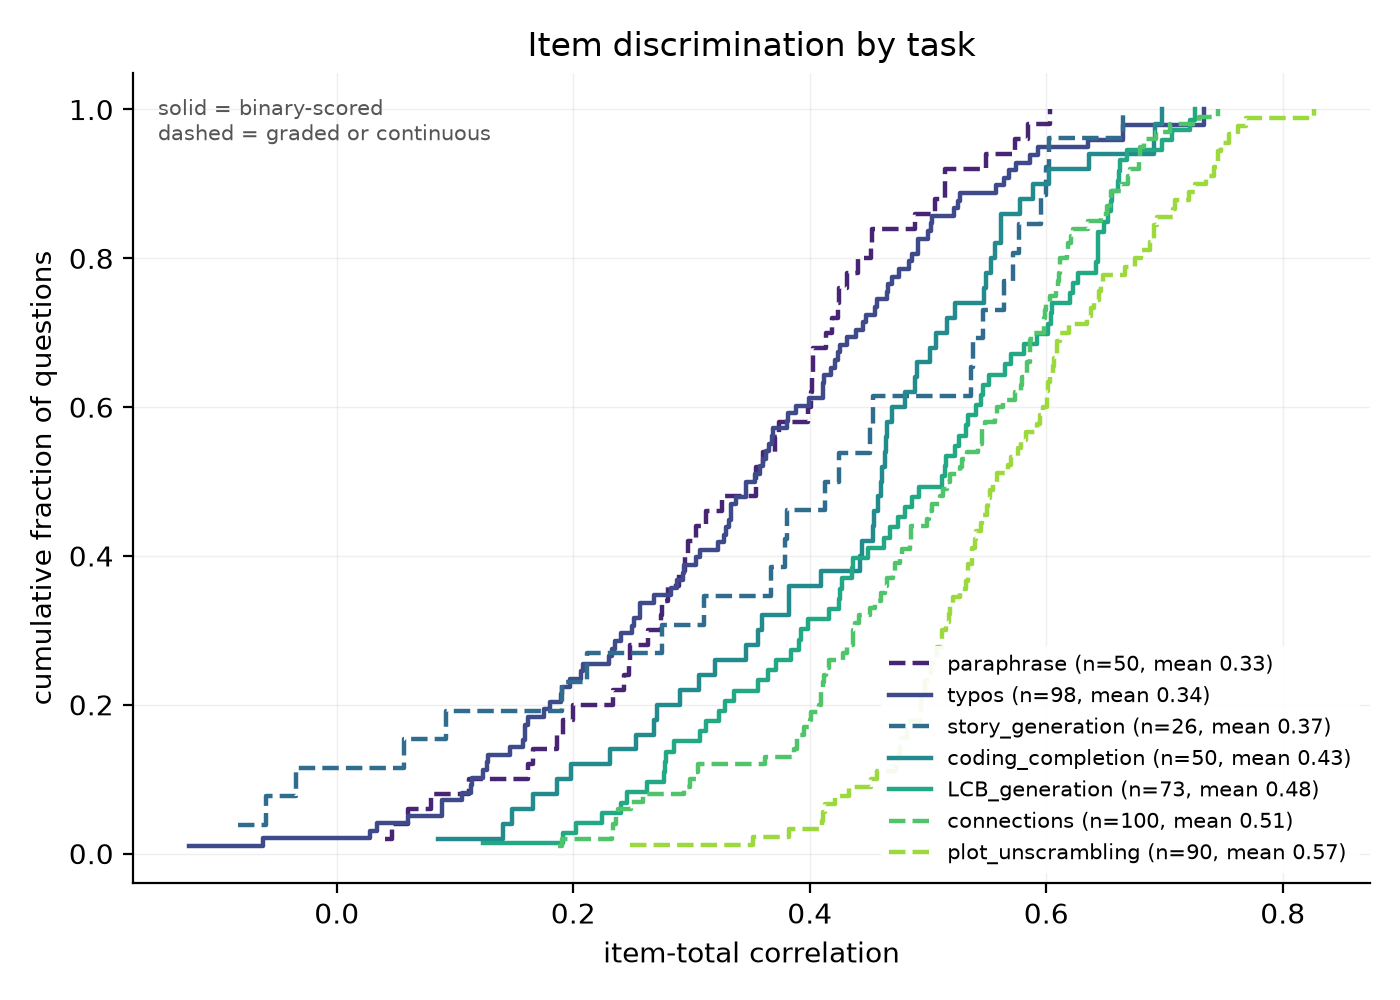
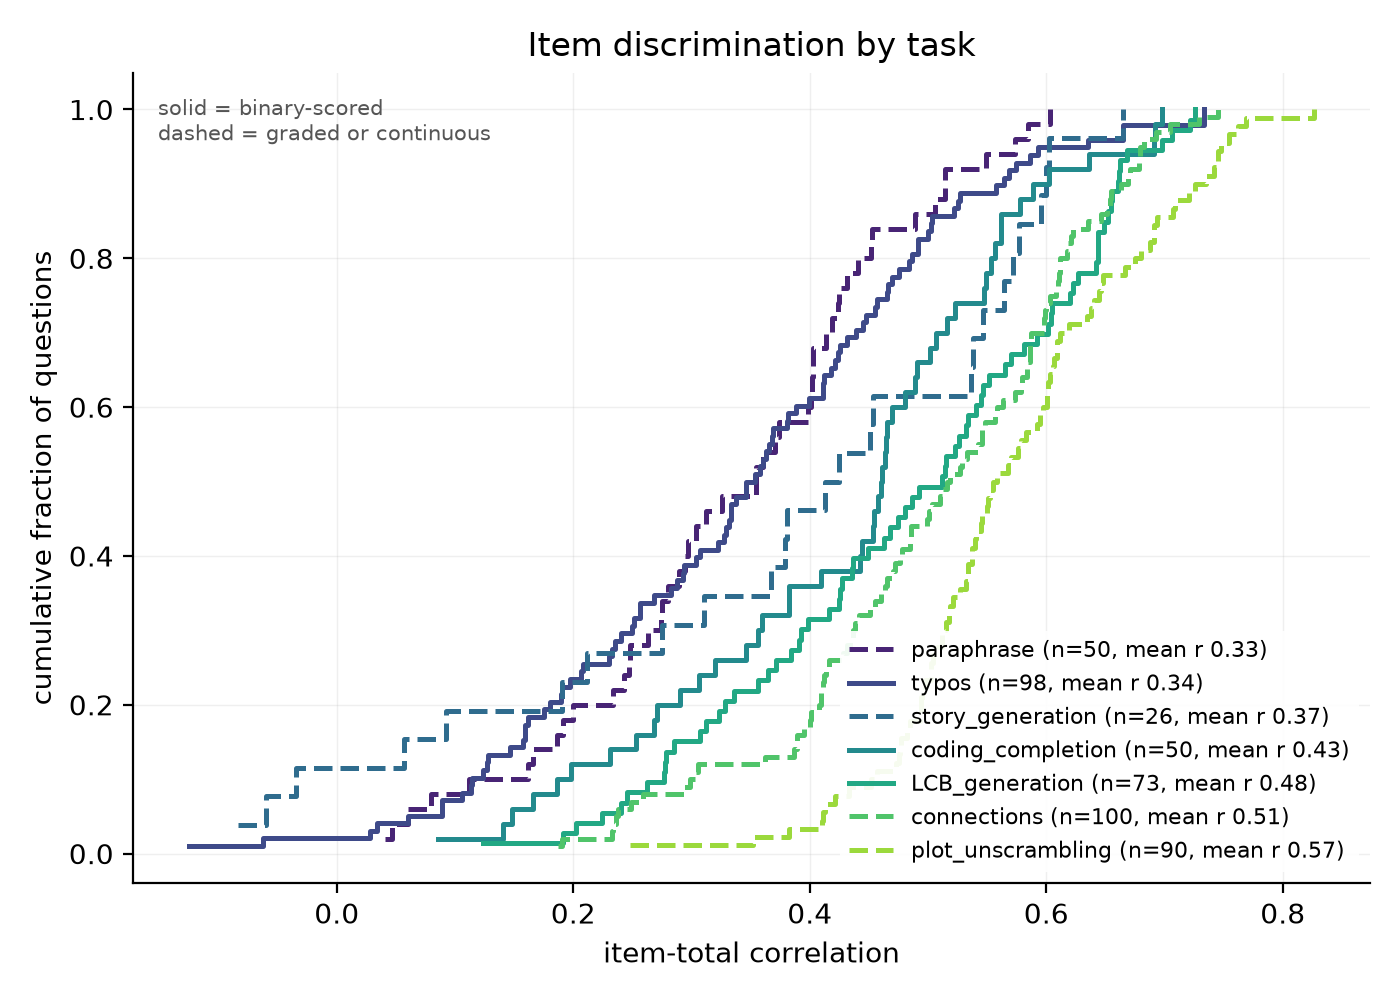
Split headline figure: binary-scored tasks only, pass rates in legend

diff --git a/scripts/05_task_discrimination.py b/scripts/05_task_discrimination.py
@@ -99,32 +99,61 @@ def main():
             gap = groups[a].mean() - groups[b].mean()
             print(f"  {a:20s} vs {b:20s}  mean gap {gap:+.3f}  p={p_adj:.4f}")
 
-    # ---- figure ---------------------------------------------------------
+    # ---- figures --------------------------------------------------------
+    # Two of them, deliberately. The headline claim is about binary-scored
+    # tasks only, so it gets a figure containing only those, with pass rates in
+    # the legend: the attenuation objection ("that task just has a more extreme
+    # pass rate") is then answered by the figure itself rather than by a table
+    # the reader has to be holding at the same time. The all-tasks version is
+    # kept as context, where the dashed curves cannot be mistaken for evidence.
     FIGURES.mkdir(exist_ok=True)
-    fig, ax = plt.subplots(figsize=(7, 5))
-    palette = plt.cm.viridis(np.linspace(0.1, 0.85, len(summary)))
-    for color, task in zip(palette, summary.index):
-        vals = d.loc[d.task == task, "r"].values
-        x, y = ecdf(vals)
-        style = "-" if task in binary_tasks else "--"
-        ax.step(
-            x, y, style, where="post", color=color, linewidth=1.6,
-            label=f"{task} (n={len(vals)}, mean {vals.mean():.2f})",
-        )
-    ax.set_xlabel("item-total correlation")
-    ax.set_ylabel("cumulative fraction of questions")
-    ax.set_title("Item discrimination by task")  # descriptive: let the curves argue
-    ax.legend(fontsize=7.5, loc="lower right", framealpha=0.92, edgecolor="none")
-    ax.grid(alpha=0.2, linewidth=0.5)
-    for s in ("top", "right"):
-        ax.spines[s].set_visible(False)
-    ax.text(
-        0.02, 0.97, "solid = binary-scored\ndashed = graded or continuous",
-        transform=ax.transAxes, fontsize=7.5, va="top", color="#555555",
+
+    def draw(tasks, path, title, show_pass_rate):
+        fig, ax = plt.subplots(figsize=(7, 5))
+        palette = plt.cm.viridis(np.linspace(0.1, 0.85, len(tasks)))
+        for color, task in zip(palette, tasks):
+            vals = d.loc[d.task == task, "r"].values
+            x, y = ecdf(vals)
+            label = f"{task} (n={len(vals)}, mean r {vals.mean():.2f}"
+            if show_pass_rate:
+                label += f", pass {summary.pass_rate[task]:.2f}"
+            label += ")"
+            ax.step(
+                x, y, "-" if task in binary_tasks else "--", where="post",
+                color=color, linewidth=1.8, label=label,
+            )
+        ax.set_xlabel("item-total correlation")
+        ax.set_ylabel("cumulative fraction of questions")
+        ax.set_title(title)  # descriptive: let the curves argue
+        ax.legend(fontsize=8, loc="lower right", framealpha=0.92, edgecolor="none")
+        ax.grid(alpha=0.2, linewidth=0.5)
+        for sp in ("top", "right"):
+            ax.spines[sp].set_visible(False)
+        if not show_pass_rate:
+            ax.text(
+                0.02, 0.97, "solid = binary-scored\ndashed = graded or continuous",
+                transform=ax.transAxes, fontsize=7.5, va="top", color="#555555",
+            )
+        fig.tight_layout()
+        fig.savefig(path, dpi=200)
+        plt.close(fig)
+
+    binary_ordered = [t for t in summary.index if t in binary_tasks]
+    draw(
+        binary_ordered,
+        FIGURES / "task_discrimination_binary.png",
+        "Item discrimination, binary-scored tasks",
+        show_pass_rate=True,
     )
-    fig.tight_layout()
-    fig.savefig(FIGURES / "task_discrimination.png", dpi=200)
-    print(f"\nfigure -> {FIGURES / 'task_discrimination.png'}")
+    draw(
+        list(summary.index),
+        FIGURES / "task_discrimination.png",
+        "Item discrimination by task",
+        show_pass_rate=False,
+    )
+
+    print(f"\nfigures -> {FIGURES / 'task_discrimination_binary.png'} (headline)")
+    print(f"            {FIGURES / 'task_discrimination.png'} (all tasks)")
 
 
 if __name__ == "__main__":
